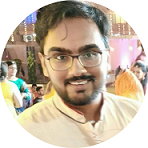
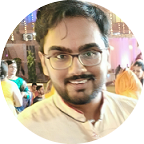
Added background color

diff --git a/index.html b/index.html
@@ -6,7 +6,9 @@
   <title>Ankit's Personal Site</title>
 </head>
 
-<body>
+<body style="background-color: RGB(152, 180, 212)
+
+">
   <table cellspacing="20">
     <tr>
       <td><img src="Ankit.jpg" alt="Ankit Image"></td>
